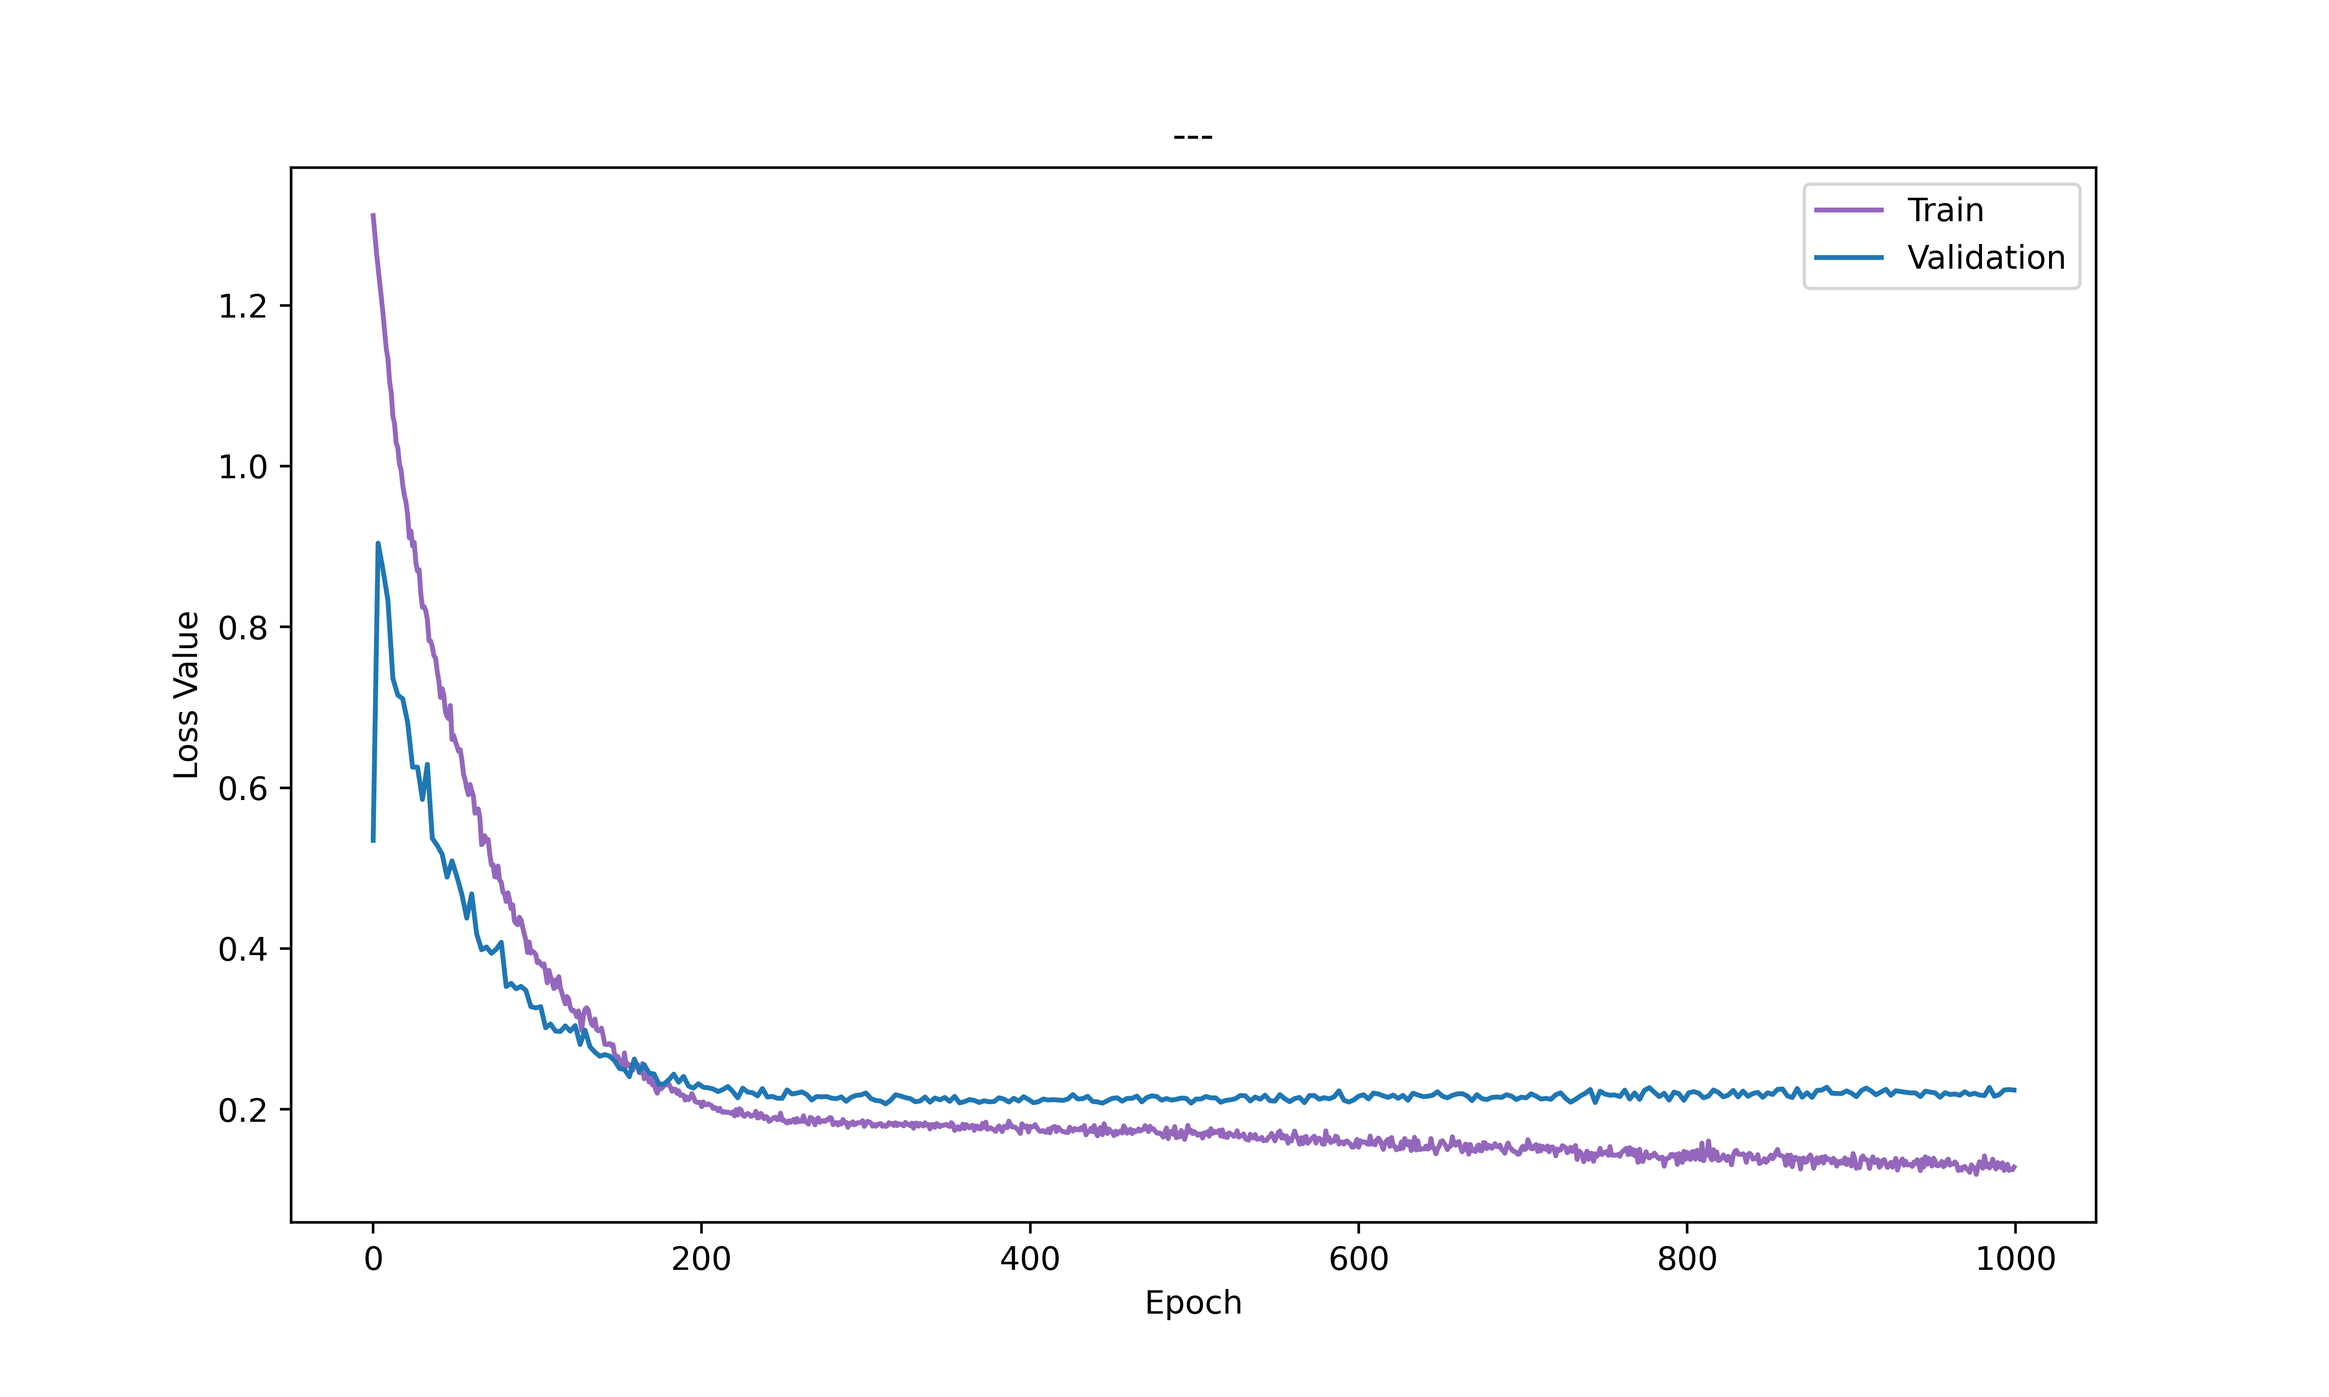
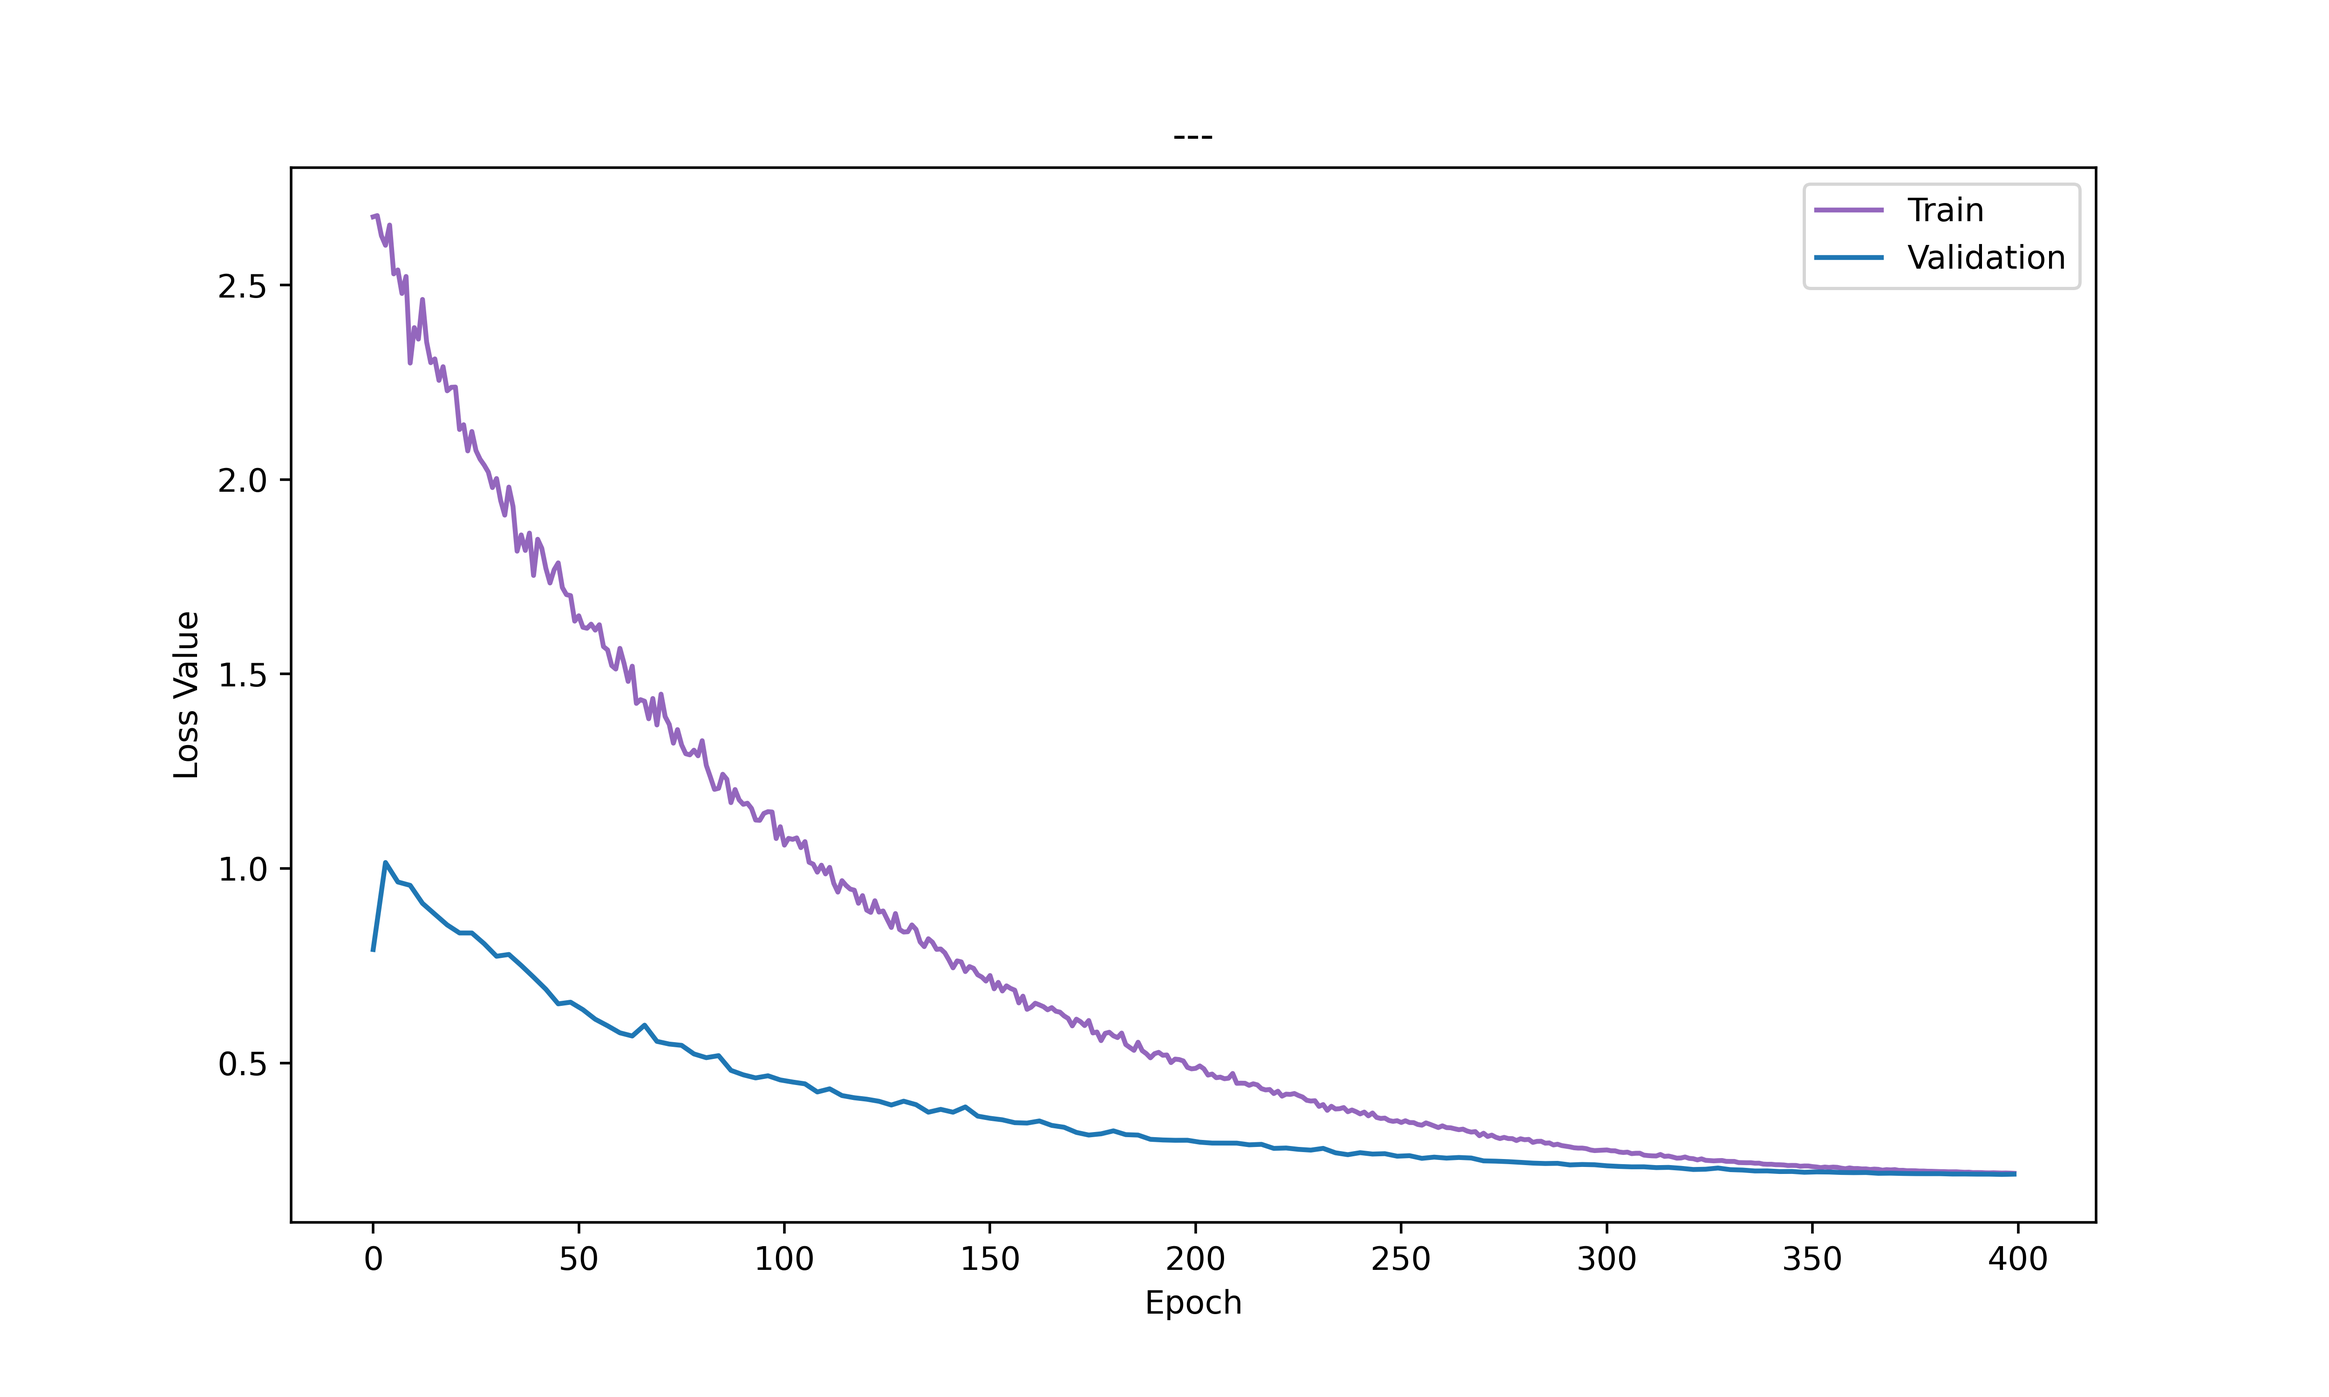
Epoch Number updated and additional optimization parts are added..

diff --git a/vae-creation/model.py b/vae-creation/model.py
@@ -9,24 +9,18 @@ Created on Sun Dec 12, 2022
 import torch.nn as nn
 import torch.nn.functional as F
 import torch 
-# from CNN import CNNModel
 # Macros
-dropout_keep_rate= 0.90
+dropout_keep_rate= 0.66
 features = 9
 images_size = 96
 #Paths
-keep_rate=0.9
-channel_size = 50
 class VAEModel(nn.Module):
     
         #List of Modules
-        conv = []
+        env = []
         dropout = []
         batch = []
-        maxpooling = []
         
-        after_cnv_size = channel_size*6*6
-        enc_lt = []
         
         dec = []
         dec_drop = []
@@ -35,63 +29,35 @@ class VAEModel(nn.Module):
         def __init__(self):
             super(VAEModel, self).__init__()
             
-            self.conv1 = nn.Linear(in_features=images_size*images_size, out_features=128*32)
-            self.conv.append(self.conv1)
-            self.conv2 = nn.Linear(in_features=128*32, out_features=128*8)
-            self.conv.append(self.conv2)
-            self.conv3 =nn.Linear(in_features=128*8, out_features=128*4)
-            self.conv.append(self.conv3)        
-            self.conv4 = nn.Linear(in_features=128*4, out_features=128*2)
-            self.conv.append(self.conv4)
-            
-            
-            self.dropout1 = nn.Dropout2d(1-keep_rate)
-            self.dropout.append(self.dropout1)       
-            self.dropout2 = nn.Dropout2d(1-keep_rate)
-            self.dropout.append(self.dropout2)     
-            self.dropout3 = nn.Dropout2d(1-keep_rate)
-            self.dropout.append(self.dropout3)
-            self.dropout4 = nn.Dropout2d(1-keep_rate)
-            self.dropout.append(self.dropout4)
-            
-            
-            self.batch1=nn.BatchNorm1d(128*32) 
-            self.batch.append(self.batch1)        
-            self.batch2=nn.BatchNorm1d(128*8)
-            self.batch.append(self.batch2)
-            self.batch3=nn.BatchNorm1d(128*4)
-            self.batch.append(self.batch3)            
-            self.batch4=nn.BatchNorm1d(128*2)
-            self.batch.append(self.batch4)
-            
-            
-            # self.maxpooling1= nn.MaxPool2d(2)
-            # self.maxpooling.append(self.maxpooling1)
-            # self.maxpooling2= nn.MaxPool2d(2)
-            # self.maxpooling.append(self.maxpooling2)
-            # self.maxpooling3= nn.MaxPool2d(2)
-            # self.maxpooling.append(self.maxpooling3)
-            # self.maxpooling4= nn.MaxPool2d(2)
-            # self.maxpooling.append(self.maxpooling4)
-            
+            self.env1 = nn.Linear(in_features=images_size*images_size, out_features=256)
+            self.env.append(self.env1)
+            self.env2 = nn.Linear(in_features=256, out_features=64)
+            self.env.append(self.env2)
+            self.env3 =nn.Linear(in_features=64, out_features=features*2)
+            self.env.append(self.env3)        
 
+            self.dropout1 = nn.Dropout2d(1-dropout_keep_rate)
+            self.dropout.append(self.dropout1)       
+            self.dropout2 = nn.Dropout2d(1-dropout_keep_rate)
+            self.dropout.append(self.dropout2)     
+            self.dropout3 = nn.Dropout2d(1-dropout_keep_rate)
+            self.dropout.append(self.dropout3)
             
-            #Before Latent Space
-            self.enc_lt1 = nn.Linear(in_features=128*2, out_features=features*2)
-            self.enc_lt.append(self.enc_lt1)
-            self.enc_batch1 =nn.BatchNorm1d(features*2) 
-            
-            
+            self.batch1=nn.BatchNorm1d(256) 
+            self.batch.append(self.batch1)        
+            self.batch2=nn.BatchNorm1d(64)
+            self.batch.append(self.batch2)
+            self.batch3=nn.BatchNorm1d(features*2)
+            self.batch.append(self.batch3)            
+
             # decoder 
-            self.dec1 = nn.Linear(in_features=features, out_features=128)
+            self.dec1 = nn.Linear(in_features=features, out_features=64)
             self.dec.append(self.dec1)
-            self.dec2 = nn.Linear(in_features=128, out_features=256)
+            self.dec2 = nn.Linear(in_features=64, out_features=256)
             self.dec.append(self.dec2)
-            self.dec3 = nn.Linear(in_features=256, out_features=512)
+            self.dec3 = nn.Linear(in_features=256, out_features=images_size*images_size)
             self.dec.append(self.dec3)
-            self.dec4 = nn.Linear(in_features=512, out_features=images_size*images_size)
-            self.dec.append(self.dec4) 
-            
+
 
             self.dec_drop1 = nn.Dropout2d(1-dropout_keep_rate)
             self.dec_drop.append(self.dec_drop1)
@@ -99,17 +65,14 @@ class VAEModel(nn.Module):
             self.dec_drop.append(self.dec_drop2)
             self.dec_drop3 = nn.Dropout2d(1-dropout_keep_rate)
             self.dec_drop.append(self.dec_drop3)
-            self.dec_drop4 = nn.Dropout2d(1-dropout_keep_rate)
-            self.dec_drop.append(self.dec_drop4)
+
             
-            self.dec_batch1 =nn.BatchNorm1d(128) 
+            self.dec_batch1 =nn.BatchNorm1d(64) 
             self.dec_batch.append(self.dec_batch1)
             self.dec_batch2 =nn.BatchNorm1d(256) 
             self.dec_batch.append(self.dec_batch2)
-            self.dec_batch3 =nn.BatchNorm1d(512) 
+            self.dec_batch3 =nn.BatchNorm1d(images_size*images_size) 
             self.dec_batch.append(self.dec_batch3)
-            self.dec_batch4 = nn.BatchNorm1d(images_size*images_size) 
-            self.dec_batch.append(self.dec_batch4)
             
             
             
@@ -143,6 +106,11 @@ class VAEModel(nn.Module):
             
             return -torch.mean(logpx_z + logpz - logz_x)
 
+        def kl_loss(self,z,mean,logvar):
+            
+            kl_loss = torch.mean(-0.5 * (1 + logvar - torch.square(mean) - torch.exp(logvar)))
+            
+            return kl_loss
             
         def forward(self, x):
 
@@ -150,9 +118,9 @@ class VAEModel(nn.Module):
             
             # x = x.reshape(-1,1,images_size,images_size)
             #Encoder Netwrok
-            for i in range(4):
+            for i in range(3):
                 #cnv
-                x = self.conv[i](x)
+                x = self.env[i](x)
                 #print(f"{i}**",x.shape)
                 
                  #relu
@@ -166,24 +134,9 @@ class VAEModel(nn.Module):
                  #pooling
                 # x = self.maxpooling[i](x)
                 #print(f"{i}**",x.shape)
+                x = self.dropout[i](x)
                 
-               
-                # #dropout
-                # x = self.dropout[i](x)
-                #print(f"{i}**",x.shape)
-               
-            #Flattening Operation, Dense Layers
-            x = torch.flatten(x, start_dim=1)   
-            
-            for i in range(1):
-                
-                x = self.enc_lt[i](x)
-                
-                #relu
-                x = F.relu(x)
-                
-                # batch
-                x = self.enc_batch1(x)
+              
                 
            
             
@@ -198,7 +151,7 @@ class VAEModel(nn.Module):
             # x = z.reshape(-1,1,1,features)
             x = z
             
-            for i in range(4):
+            for i in range(3):
                 #cnv
                 x = self.dec[i](x)
                 #print(f"{i}**",x.shape)
@@ -213,12 +166,12 @@ class VAEModel(nn.Module):
                                 
                
                 #dropout
-                if i == 3: #Last Layer 
+                if i == 2: #Last Layer 
                     # x = torch.flatten(x, start_dim=1) 
                     # x = self.dec[4](x)
                     out =  x.reshape(-1,images_size,images_size)
-                # else:
-                #     x = self.dec_drop[i](x)
+                else:
+                    x = self.dec_drop[i](x)
                 # print(f"{i}**",x.shape)
             
 

diff --git a/vae-creation/train.py b/vae-creation/train.py
@@ -69,7 +69,40 @@ class ModelTrain:
         
         self.use_gpu=use
         
-    def test(self):
+    
+    def test__(self):
+        
+        #TEST
+        print("---------------------TEST PROCESS WITHOUT KL------------------------------")
+        #Test Values
+        test_loss = 0.0
+        test_acc = 0.0
+
+        #Model in Evaluatıon mode, no changes in models parameters        
+        self.model.eval()
+        
+        with torch.no_grad():
+            for idx, img in enumerate(self.test_loader):
+                
+                img = img.cuda()
+                img =  img.to(torch.float32)
+
+                y_pred, mean, log_var, latent_sample = self.model(img)
+            
+                loss = self.criteria(y_pred, img)
+                
+
+
+                
+                #On each batch it sum up.
+                test_loss += loss.item()* img.size(0)
+        
+        #Epoch losses and accuracy
+        test_loss = test_loss / (len(self.test_loader.sampler))
+        
+        print("test_loss= "+ str(test_loss))
+        
+    def test(self,device):
         
         #TEST
         print("---------------------TEST PROCESS------------------------------")
@@ -83,19 +116,17 @@ class ModelTrain:
         with torch.no_grad():
             for idx, img in enumerate(self.test_loader):
                 
-                if self.use_gpu:
-                    img = img.cuda()
-                    
-                #x = x. flatten operatıon
-                # img = torch.flatten(img, start_dim=1)   
-                img = img.to(torch.float16)
-                with torch.cuda.amp.autocast():
+                img = img.to(device)
+                img =  img.to(torch.float32)
 
-                    y_pred, mu, log_var, latent_sample = self.model(img)
+                y_pred, mean, log_var, latent_sample = self.model(img)
             
-                    #Validation Loss calculation part
-                    # loss = self.model.calculate_loss(img,y_pred,latent_sample,mu,log_var)
-                    loss = self.criteria(y_pred, img)
+                loss = self.criteria(y_pred, img)
+                
+                kl_loss = self.model.kl_loss(latent_sample,mean,log_var)
+                
+                loss += kl_loss
+
                 
                 #On each batch it sum up.
                 test_loss += loss.item()* img.size(0)
@@ -143,32 +174,25 @@ class ModelTrain:
 
             for idx, img in enumerate(self.train_loader):
                 
-                img = img.to(device)
                 
-                #x = x. flatten operatıon
-                # img = torch.flatten(img, start_dim=1)   
-                img = img.to(torch.float16)
-                 
+                img = img.to(device)
+                img =  img.to(torch.float32)
+
+ 
                 #gradient refresh, makes the general faster
                 for param in self.model.parameters():
                     param.grad = None
                      
-                with torch.cuda.amp.autocast():
                     
-                    y_pred, mean, log_var, latent_sample = self.model(img.to(device))
-                    # 
-                    # output is float16 because linear layers autocast to float16.
-                    assert y_pred.dtype is torch.float16
+                y_pred, mean, log_var, latent_sample = self.model(img)
+
+                loss = self.criteria(y_pred, img)
+                
+                kl_loss = self.model.kl_loss(latent_sample,mean,log_var)
+                
+                loss += kl_loss
                     
-                    #Training Loss calculation part
-                    # loss = self.model.calculate_loss(img,y_pred,latent_sample,mean,log_var)
-                    loss = self.criteria(y_pred, img)
-                    
-                    # loss +=  self.model.gaussian_loss_fnc(log_var,mean)
-                    
-                    # loss is float32 because mse_loss layers autocast to float32.
-                    assert loss.dtype is torch.float32
-                    loss.backward()
+                loss.backward()
                     
                 self.optimizer.step()
 
@@ -192,19 +216,20 @@ class ModelTrain:
                     # Measure the performance in validation set.
                     for idx2, img2 in enumerate(self.validation_loader):
                         
-                        img2 = img2.cuda()
+                        img2 = img2.to(device)
                         #x = x. flatten operatıon
                         # img2 = torch.flatten(img2, start_dim=1)   
-                        img2 = img2.to(torch.float16)
+                        img2 = img2.to(torch.float32)
                         
-                        with torch.cuda.amp.autocast():
 
-                            y_pred, mu, log_var,latent_sample = self.model(img2)
+                        y_pred, mu, log_var,latent_sample = self.model(img2)
 
-                            # loss = self.model.calculate_loss(img2,y_pred,latent_sample,mu,log_var)
-
-                            loss = self.criteria(y_pred, img2)
+                        loss = self.criteria(y_pred, img2)
                         
+                        kl_loss = self.model.kl_loss(latent_sample,mu,log_var)
+                        
+                        loss += kl_loss
+
                         #On each batch it sum up.
                         valid_loss += loss.item()* img2.size(0)
                         
@@ -220,7 +245,7 @@ class ModelTrain:
         print('Total Elapsed time is %f seconds.' % (end - start))
         
         #Test Result
-        self.test()
+        self.test(device)
 
         return self.loss_values,self.model, latent_sample
 

diff --git a/vae-creation/main.py b/vae-creation/main.py
@@ -27,12 +27,14 @@ def main():
     
     model = VAEModel()
     learning_rate = 3e-4
-    n_epochs =  1000
+    n_epochs =  500
     weight_decay =3e-6 
     optimizer = optim.Adam(params=model.parameters(), lr=learning_rate,weight_decay=weight_decay)
     criteria = nn.MSELoss()
 
     loss_values, model, latent_sample=train_obj.train(model, criteria, n_epochs, optimizer)
+    
+    train_obj.test__()
     
     return loss_values,model, latent_sample
 

diff --git a/vae-creation/visualize.py b/vae-creation/visualize.py
@@ -22,7 +22,7 @@ def visualize_loss(train_loss, validation_loss,title,img_name):
     plt.plot(train_loss, color=color)
 
     color = 'tab:blue'
-    x_axis = list(range(0, 1000, 3))
+    x_axis = list(range(0, 500, 3))
     plt.plot(x_axis, validation_loss, color=color)
 
     class_names = ["Train", "Validation"]
